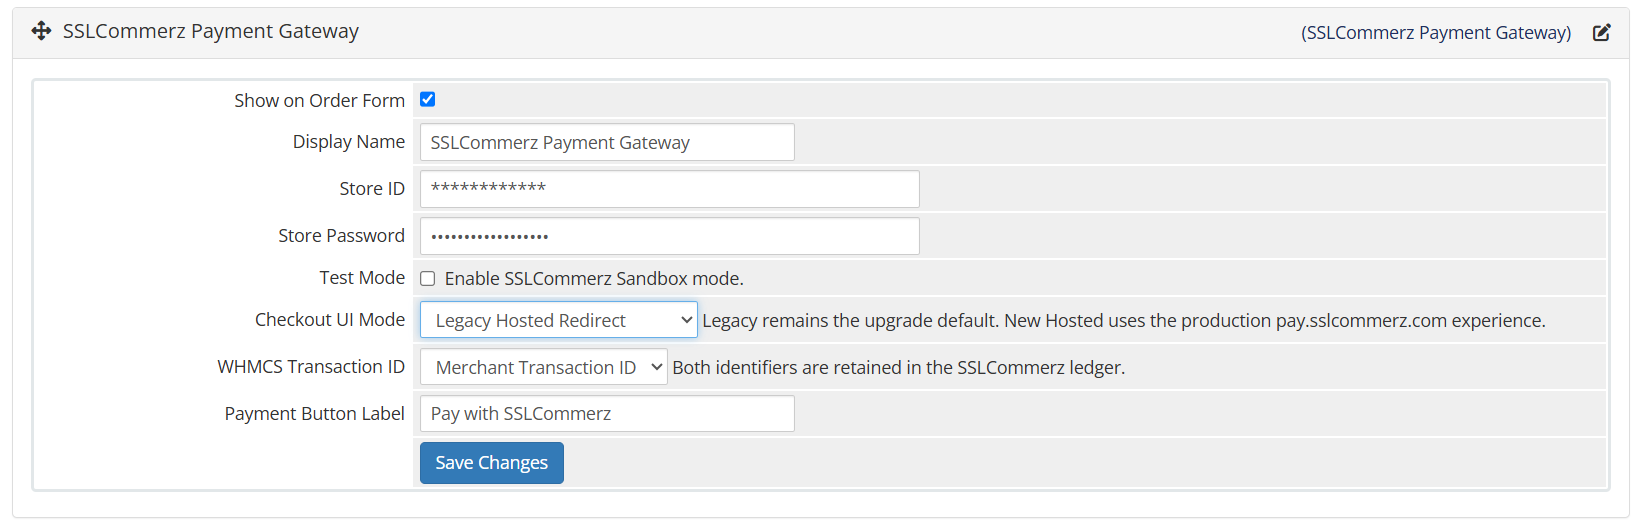
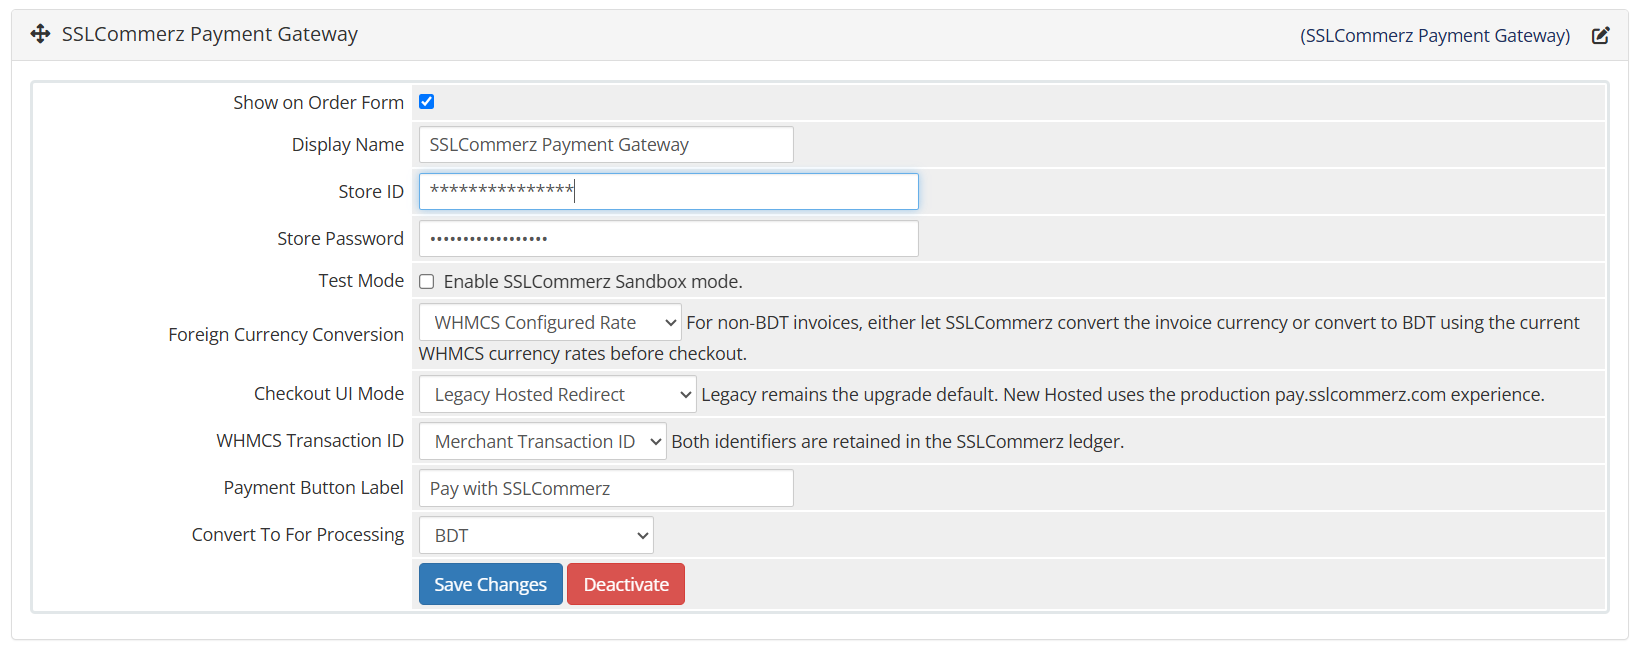
release: prepare v1.0.1

Changed region(s): [[0.0, 0.1217, 0.9951, 0.943], [0.7774, 0.0304, 0.9951, 0.0913], [0.0, 0.0304, 0.2177, 0.0913]]

diff --git a/modules/gateways/sslcommerz/lib/Ledger.php b/modules/gateways/sslcommerz/lib/Ledger.php
@@ -20,6 +20,7 @@ class SslCommerzLedger
                 'id' => 'increments', 'invoice_id' => 'integer', 'tran_id' => 'string:30',
                 'val_id' => 'string:100?', 'bank_tran_id' => 'string:100?', 'sessionkey' => 'string:128?',
                 'status' => 'string:32', 'currency' => 'string:8', 'invoice_amount' => 'decimal:16,2',
+                'processing_currency' => 'string:8?', 'processing_amount' => 'decimal:16,2',
                 'bdt_amount' => 'decimal:16,2', 'currency_rate_bdt' => 'decimal:18,8',
                 'refunded_bdt' => 'decimal:16,2', 'refund_ref_id' => 'string:100?',
                 'refund_trans_id' => 'string:30?', 'card_no' => 'string:80?', 'card_type' => 'string:100?',
@@ -78,6 +79,8 @@ class SslCommerzLedger
                 $table->string('status', 32)->default('initiated')->index();
                 $table->string('currency', 8);
                 $table->decimal('invoice_amount', 16, 2)->default(0);
+                $table->string('processing_currency', 8)->nullable();
+                $table->decimal('processing_amount', 16, 2)->default(0);
                 $table->decimal('bdt_amount', 16, 2)->default(0);
                 $table->decimal('currency_rate_bdt', 18, 8)->default(0);
                 $table->decimal('refunded_bdt', 16, 2)->default(0);
@@ -163,11 +166,16 @@ class SslCommerzLedger
     {
         if (empty($transaction['tran_id'])) { return false; }
         $tranId = (string)$transaction['tran_id'];
-        $currency = strtoupper(trim(isset($transaction['currency_type']) ? (string)$transaction['currency_type'] : (isset($transaction['currency']) ? (string)$transaction['currency'] : '')));
-        $invoiceAmount = isset($transaction['currency_amount']) && (float)$transaction['currency_amount'] > 0
+        $existing = $this->find($tranId);
+        $processingCurrency = strtoupper(trim(isset($transaction['currency_type']) ? (string)$transaction['currency_type'] : (isset($transaction['currency']) ? (string)$transaction['currency'] : '')));
+        $processingAmount = isset($transaction['currency_amount']) && (float)$transaction['currency_amount'] > 0
             ? (float)$transaction['currency_amount'] : 0;
         $bdtAmount = isset($transaction['amount']) && (float)$transaction['amount'] > 0 ? (float)$transaction['amount'] : 0;
-        if ($invoiceAmount <= 0 && $currency === 'BDT') { $invoiceAmount = $bdtAmount; }
+        if ($processingAmount <= 0 && $processingCurrency === 'BDT') { $processingAmount = $bdtAmount; }
+        $invoiceCurrency = $existing && !empty($existing->currency)
+            ? strtoupper((string)$existing->currency) : $processingCurrency;
+        $invoiceAmount = $existing && isset($existing->invoice_amount) && (float)$existing->invoice_amount > 0
+            ? (float)$existing->invoice_amount : $processingAmount;
         $safeTransaction = class_exists('SslCommerzSupport') ? SslCommerzSupport::redact($transaction) : $transaction;
         $fields = array('raw_response'=>json_encode($safeTransaction));
         if (isset($transaction['value_a']) && (int)$transaction['value_a'] > 0) { $fields['invoice_id'] = (int)$transaction['value_a']; }
@@ -181,11 +189,17 @@ class SslCommerzLedger
         if (isset($transaction['status']) && trim((string)$transaction['status']) !== '') {
             $fields['status'] = strtolower(trim((string)$transaction['status']));
         }
-        if ($currency !== '') { $fields['currency'] = $currency; }
-        if ($invoiceAmount > 0) { $fields['invoice_amount'] = $invoiceAmount; }
+        if ($processingCurrency !== '') { $fields['processing_currency'] = $processingCurrency; }
+        if ($processingAmount > 0) { $fields['processing_amount'] = $processingAmount; }
+        if (!$existing || empty($existing->currency)) {
+            if ($invoiceCurrency !== '') { $fields['currency'] = $invoiceCurrency; }
+        }
+        if (!$existing || !isset($existing->invoice_amount) || (float)$existing->invoice_amount <= 0) {
+            if ($invoiceAmount > 0) { $fields['invoice_amount'] = $invoiceAmount; }
+        }
         if ($bdtAmount > 0) { $fields['bdt_amount'] = $bdtAmount; }
         if ($invoiceAmount > 0 && $bdtAmount > 0) {
-            $fields['currency_rate_bdt'] = $currency === 'BDT' ? 1 : round($bdtAmount/$invoiceAmount, 8);
+            $fields['currency_rate_bdt'] = $invoiceCurrency === 'BDT' ? 1 : round($bdtAmount/$invoiceAmount, 8);
         }
         foreach (array('card_no','card_type','card_brand','card_issuer','risk_title') as $detail) {
             if (isset($transaction[$detail]) && trim((string)$transaction[$detail]) !== '') {
@@ -195,7 +209,6 @@ class SslCommerzLedger
         if (isset($transaction['risk_level']) && is_numeric($transaction['risk_level'])) {
             $fields['risk_level'] = (int)$transaction['risk_level'];
         }
-        $existing = $this->find($tranId);
         if ($existing) { return $this->update($tranId, $fields); }
         if (!isset($fields['invoice_id'], $fields['invoice_amount'], $fields['currency'])
             || $fields['invoice_id'] <= 0 || $fields['invoice_amount'] <= 0 || $fields['currency'] === '') { return false; }
@@ -376,6 +389,8 @@ class SslCommerzLedger
     private function migrateExistingTable($capsule)
     {
         $definitions = array(
+            'processing_currency' => function ($t) { $t->string('processing_currency', 8)->nullable(); },
+            'processing_amount' => function ($t) { $t->decimal('processing_amount', 16, 2)->default(0); },
             'currency_rate_bdt' => function ($t) { $t->decimal('currency_rate_bdt', 18, 8)->default(0); },
             'refunded_bdt' => function ($t) { $t->decimal('refunded_bdt', 16, 2)->default(0); },
             'refund_trans_id' => function ($t) { $t->string('refund_trans_id', 30)->nullable(); },

diff --git a/modules/gateways/sslcommerz/lib/CheckoutService.php b/modules/gateways/sslcommerz/lib/CheckoutService.php
@@ -10,15 +10,17 @@ class SslCommerzCheckoutService
     private $invoiceLoader;
     private $gateway;
     private $systemUrl;
+    private $currencyConverter;
     private $lastDiagnostic = array();
 
-    public function __construct($api, $ledger, callable $invoiceLoader, array $gateway, $systemUrl)
+    public function __construct($api, $ledger, callable $invoiceLoader, array $gateway, $systemUrl, callable $currencyConverter = null)
     {
         $this->api = $api;
         $this->ledger = $ledger;
         $this->invoiceLoader = $invoiceLoader;
         $this->gateway = $gateway;
         $this->systemUrl = rtrim((string) $systemUrl, '/');
+        $this->currencyConverter = $currencyConverter;
     }
 
     public function initiate($invoiceId)
@@ -36,6 +38,35 @@ class SslCommerzCheckoutService
 
         $tranId = SslCommerzSupport::transactionId($invoice['invoiceid']);
         $callback = $this->systemUrl . '/modules/gateways/callback/sslcommerz.php';
+        $this->lastDiagnostic = array(
+            'invoice_id' => (int)$invoice['invoiceid'],
+            'tran_id' => $tranId,
+            'amount' => (float)$invoice['amount'],
+            'currency' => strtoupper((string)$invoice['currency']),
+            'conversion_source' => isset($this->gateway['conversion_source']) && $this->gateway['conversion_source'] === 'whmcs'
+                ? 'whmcs' : 'sslcommerz',
+        );
+        try {
+            $amounts = SslCommerzPaymentRules::checkoutAmounts($this->gateway, $invoice, $this->currencyConverter);
+        } catch (Throwable $error) {
+            $message = $this->redactDiagnosticText($error->getMessage());
+            $this->lastDiagnostic['preflight_error'] = $message;
+            try {
+                $this->ledger->begin(array(
+                    'invoice_id' => (int) $invoice['invoiceid'],
+                    'tran_id' => $tranId,
+                    'status' => 'session_failed',
+                    'currency' => strtoupper((string) $invoice['currency']),
+                    'invoice_amount' => (float) $invoice['amount'],
+                    'raw_response' => json_encode(array('status'=>'PREFLIGHT_FAILED','failedreason'=>$message)),
+                ));
+            } catch (Throwable $ignored) {
+                // Preserve the actionable conversion error if diagnostic persistence also fails.
+            }
+            throw $error;
+        }
+        $invoice = array_merge($invoice, $amounts);
+
         $urls = array(
             'success_url' => $callback,
             'fail_url' => $callback,
@@ -43,11 +74,9 @@ class SslCommerzCheckoutService
             'ipn_url' => $this->systemUrl . '/modules/gateways/callback/sslcommerz_ipn.php',
             'return_url' => isset($invoice['returnurl']) ? $invoice['returnurl'] : $this->systemUrl . '/viewinvoice.php?id=' . (int) $invoice['invoiceid'],
         );
-        $this->lastDiagnostic = array(
-            'invoice_id' => (int)$invoice['invoiceid'],
-            'tran_id' => $tranId,
-            'amount' => (float)$invoice['amount'],
-            'currency' => strtoupper((string)$invoice['currency']),
+        $this->lastDiagnostic = array_merge($this->lastDiagnostic, array(
+            'processing_amount' => (float)$invoice['processing_amount'],
+            'processing_currency' => strtoupper((string)$invoice['processing_currency']),
             'checkout_mode' => SslCommerzSupport::checkoutMode(isset($this->gateway['ui_mode']) ? $this->gateway['ui_mode'] : ''),
             'test_mode' => isset($this->gateway['testmode']) && $this->gateway['testmode'] === 'on',
             'customer_fields_present' => array(
@@ -60,7 +89,7 @@ class SslCommerzCheckoutService
                 'phone' => isset($invoice['phone']) && trim((string)$invoice['phone']) !== '',
             ),
             'callback_host' => parse_url($callback, PHP_URL_HOST),
-        );
+        ));
 
         $this->ledger->begin(array(
             'invoice_id' => (int) $invoice['invoiceid'],
@@ -68,6 +97,8 @@ class SslCommerzCheckoutService
             'status' => 'initiated',
             'currency' => strtoupper((string) $invoice['currency']),
             'invoice_amount' => (float) $invoice['amount'],
+            'processing_currency' => strtoupper((string) $invoice['processing_currency']),
+            'processing_amount' => (float) $invoice['processing_amount'],
         ));
 
         try {

diff --git a/modules/gateways/sslcommerz/lib/PaymentRules.php b/modules/gateways/sslcommerz/lib/PaymentRules.php
@@ -2,10 +2,40 @@
 
 class SslCommerzPaymentRules
 {
+    public static function checkoutAmounts(array $gateway, array $invoice, callable $converter = null)
+    {
+        $invoiceAmount = (float) $invoice['amount'];
+        $invoiceCurrency = strtoupper((string) $invoice['currency']);
+        $processingAmount = $invoiceAmount;
+        $processingCurrency = $invoiceCurrency;
+
+        if (isset($gateway['conversion_source']) && $gateway['conversion_source'] === 'whmcs' && $invoiceCurrency !== 'BDT') {
+            if (!$converter) {
+                throw new RuntimeException('WHMCS BDT conversion rate is unavailable.');
+            }
+            $converted = (float) call_user_func($converter, $invoiceAmount, $invoiceCurrency, 'BDT');
+            if (!is_finite($converted) || $converted <= 0) {
+                throw new RuntimeException('WHMCS BDT conversion rate is unavailable.');
+            }
+            $processingAmount = round($converted, 2);
+            if ($processingAmount <= 0) {
+                throw new RuntimeException('WHMCS BDT conversion rate is unavailable.');
+            }
+            $processingCurrency = 'BDT';
+        }
+
+        return array(
+            'invoice_amount' => $invoiceAmount,
+            'invoice_currency' => $invoiceCurrency,
+            'processing_amount' => $processingAmount,
+            'processing_currency' => $processingCurrency,
+        );
+    }
+
     public static function sessionPayload(array $gateway, array $invoice, array $urls, $tranId)
     {
-        $amount = (float)$invoice['amount'];
-        $currency = strtoupper((string)$invoice['currency']);
+        $amount = isset($invoice['processing_amount']) ? (float)$invoice['processing_amount'] : (float)$invoice['amount'];
+        $currency = strtoupper(isset($invoice['processing_currency']) ? (string)$invoice['processing_currency'] : (string)$invoice['currency']);
         if ($currency === 'BDT' && ($amount < 10 || $amount > 500000)) {
             throw new InvalidArgumentException('SSLCommerz accepts direct BDT payments from 10.00 to 500000.00 BDT.');
         }
@@ -73,16 +103,20 @@ class SslCommerzPaymentRules
         }
 
         $currency = strtoupper(isset($attempt['currency']) ? (string) $attempt['currency'] : '');
+        $processingCurrency = strtoupper(isset($attempt['processing_currency']) && $attempt['processing_currency'] !== ''
+            ? (string) $attempt['processing_currency'] : $currency);
         $validatedCurrency = strtoupper(isset($validation['currency_type']) ? (string) $validation['currency_type'] : (isset($validation['currency']) ? (string) $validation['currency'] : ''));
-        if ($validatedCurrency !== $currency) {
+        if ($validatedCurrency !== $processingCurrency) {
             return self::reject('currency_mismatch');
         }
 
         $invoiceAmount = (float) (isset($attempt['invoice_amount']) ? $attempt['invoice_amount'] : 0);
-        $validatedInvoiceAmount = $currency === 'BDT'
+        $processingAmount = isset($attempt['processing_amount']) && (float)$attempt['processing_amount'] > 0
+            ? (float)$attempt['processing_amount'] : $invoiceAmount;
+        $validatedProcessingAmount = $processingCurrency === 'BDT'
             ? (float) (isset($validation['currency_amount']) && $validation['currency_amount'] !== '' ? $validation['currency_amount'] : (isset($validation['amount']) ? $validation['amount'] : 0))
             : (float) (isset($validation['currency_amount']) ? $validation['currency_amount'] : 0);
-        if ($invoiceAmount <= 0 || abs($invoiceAmount - $validatedInvoiceAmount) > 0.01) {
+        if ($invoiceAmount <= 0 || $processingAmount <= 0 || abs($processingAmount - $validatedProcessingAmount) > 0.01) {
             return self::reject('amount_mismatch');
         }
 

diff --git a/modules/gateways/sslcommerz/lib/Bootstrap.php b/modules/gateways/sslcommerz/lib/Bootstrap.php
@@ -68,7 +68,14 @@ class SslCommerzBootstrap
         ));
         $ledger = new SslCommerzLedger();
         $loader = new SslCommerzWhmcsInvoiceLoader($systemUrl);
-        return new SslCommerzCheckoutService($api, $ledger, array($loader, 'load'), $gateway, $systemUrl);
+        return new SslCommerzCheckoutService(
+            $api,
+            $ledger,
+            array($loader, 'load'),
+            $gateway,
+            $systemUrl,
+            array($loader, 'convertCurrency')
+        );
     }
 }
 
@@ -118,5 +125,15 @@ class SslCommerzWhmcsInvoiceLoader
             'phone' => (string) $invoice->phonenumber,
             'returnurl' => $this->systemUrl . '/viewinvoice.php?id=' . (int) $invoice->invoiceid,
         );
+    }
+
+    public function convertCurrency($amount, $fromCode, $toCode)
+    {
+        $from = \WHMCS\Billing\Currency::where('code', strtoupper((string)$fromCode))->first();
+        $to = \WHMCS\Billing\Currency::where('code', strtoupper((string)$toCode))->first();
+        if (!$from || !$to) {
+            throw new RuntimeException('WHMCS BDT conversion rate is unavailable.');
+        }
+        return \WHMCS\Billing\Currency::convertBetween($from, (float)$amount, $to);
     }
 }

diff --git a/modules/gateways/sslcommerz.php b/modules/gateways/sslcommerz.php
@@ -23,6 +23,16 @@ function sslcommerz_config()
         'store_id' => array('FriendlyName' => 'Store ID', 'Type' => 'text', 'Size' => '40'),
         'store_password' => array('FriendlyName' => 'Store Password', 'Type' => 'password', 'Size' => '40'),
         'testmode' => array('FriendlyName' => 'Test Mode', 'Type' => 'yesno', 'Description' => 'Enable SSLCommerz Sandbox mode.'),
+        'conversion_source' => array(
+            'FriendlyName' => 'Foreign Currency Conversion',
+            'Type' => 'dropdown',
+            'Options' => array(
+                'sslcommerz' => 'SSLCommerz Current Rate',
+                'whmcs' => 'WHMCS Configured Rate',
+            ),
+            'Default' => 'sslcommerz',
+            'Description' => 'For non-BDT invoices, either let SSLCommerz convert the invoice currency or convert to BDT using the current WHMCS currency rates before checkout.',
+        ),
         'ui_mode' => array(
             'FriendlyName' => 'Checkout UI Mode',
             'Type' => 'dropdown',

diff --git a/modules/addons/sslcommerz_lookup/sslcommerz_lookup.php b/modules/addons/sslcommerz_lookup/sslcommerz_lookup.php
@@ -18,7 +18,7 @@ function sslcommerz_lookup_config()
     return array(
         'name' => 'SSLCommerz Transaction Lookup',
         'description' => 'Search the local payment ledger, refresh transaction data through the v4 API, export CSV, and query refund status.',
-        'version' => '1.0.0',
+        'version' => '1.0.1',
         'author' => 'Extent Technologies Limited',
         'fields' => array(
             'store_id' => array(

diff --git a/README.md b/README.md
@@ -1,12 +1,12 @@
 # SSLCommerz for WHMCS
 
-[![Release](https://img.shields.io/badge/release-1.0.0-1565c0.svg)](CHANGELOG.md)
+[![Release](https://img.shields.io/badge/release-1.0.1-1565c0.svg)](CHANGELOG.md)
 [![PHP](https://img.shields.io/badge/PHP-7.4%20%7C%208.1--8.3-777bb4.svg)](https://www.php.net/)
 [![License](https://img.shields.io/badge/license-MIT-green.svg)](LICENSE)
 
 A production-ready SSLCommerz v4 payment gateway for WHMCS, with secure checkout, callback/IPN settlement, multi-currency reconciliation, refunds, and an optional administrator transaction-lookup add-on.
 
-Version **1.0.0** is the first public production release.
+Version **1.0.1** adds a selectable foreign-currency conversion policy, allowing non-BDT invoices to use either SSLCommerz's current rate or the rate configured in WHMCS.
 
 > This is an independent community integration. It is not an official product of, sponsored by, or affiliated with SSL Wireless/SSLCommerz or WHMCS.
 
@@ -16,6 +16,7 @@ Version **1.0.0** is the first public production release.
 - Server-side invoice reload and short-lived HMAC checkout tokens
 - Shared, idempotent browser callback and IPN payment processing
 - Strict transaction, amount, currency, risk, and identity validation
+- Selectable SSLCommerz or WHMCS foreign-currency conversion rates
 - Safe USD/foreign-currency to BDT settlement reconciliation
 - Full and partial refunds using the payment's captured exchange rate
 - Searchable local transaction ledger, remote refresh, and refund status lookup
@@ -37,7 +38,7 @@ Version **1.0.0** is the first public production release.
 2. Download the release ZIP and extract it.
 3. Copy the extracted `modules` directory into the WHMCS installation root, merging it with the existing `modules` directory.
 4. Open **Configuration > Apps & Integrations > Payments** and activate **SSLCommerz Payment Gateway**.
-5. Enter the store ID and password, select the environment and checkout mode, then save.
+5. Enter the store ID and password, select the environment, conversion policy, and checkout mode, then save.
 6. Optionally activate **SSLCommerz Transaction Lookup** under **System Settings > Addon Modules** and grant access to the required administrator roles.
 7. Complete a sandbox payment and verify both the invoice and **Billing > Gateway Log** before enabling live mode.
 
@@ -47,7 +48,14 @@ For upgrades, replace all gateway, callback, and add-on files together. Keep `le
 
 ## Configuration
 
-Configure the credentials, Test Mode, checkout mode, invoice transaction-ID preference, and gateway display name from the WHMCS payment gateway page. Never commit or share live store credentials.
+Configure the credentials, Test Mode, checkout mode, foreign-currency conversion source, invoice transaction-ID preference, and gateway display name from the WHMCS payment gateway page. Never commit or share live store credentials.
+
+**Foreign Currency Conversion** provides two policies for non-BDT invoices:
+
+- **SSLCommerz Current Rate** is the backward-compatible default. The module sends the invoice amount and currency, and SSLCommerz converts it to BDT using its current rate.
+- **WHMCS Configured Rate** converts the invoice balance to BDT on the server using the rates under **System Settings > Currencies**, then sends the locked BDT amount to SSLCommerz. BDT must exist as a configured WHMCS currency with a valid rate.
+
+Direct BDT invoices bypass conversion in both modes.
 
 ![SSLCommerz gateway settings in WHMCS](images/config.png)
 
@@ -88,7 +96,11 @@ Browser returns and IPNs use the same validation and settlement processor. Atomi
 
 ## Currency reconciliation
 
-The module keeps the customer's invoice amount separate from the BDT amount settled by SSLCommerz. A `0.10 USD` invoice settled as `12.34 BDT` is displayed as those two distinct values, never as `12.34 USD`.
+The module keeps the customer's invoice amount separate from the amount submitted for processing and the BDT amount settled by SSLCommerz. A `0.10 USD` invoice processed and settled as `12.34 BDT` is displayed as those two distinct values, never as `12.34 USD`.
+
+The conversion policy and processing amount are captured when the session is created. Later changes to the gateway setting or WHMCS currency rates do not alter callback validation or refund calculations for that transaction.
+
+Checkout uses the invoice's current outstanding balance, including WHMCS ledger adjustments, rather than only the original line-item total. The module does not add a conversion surcharge or convenience fee.
 
 For non-BDT invoices, refunds reuse the BDT-per-invoice-currency rate captured during payment. Historical foreign-currency payments without a captured rate are refused because applying a current rate could over-refund. Refund totals are capped at the remaining captured BDT balance, and durable reservations keep concurrent attempts idempotent.
 
@@ -110,13 +122,14 @@ The administrator add-on provides a minimal dashboard for recent transactions, m
 
 ## Troubleshooting
 
-- **Popup reports an error in communication:** verify all 1.0.0 files were uploaded together and clear the PHP opcode cache. The popup endpoint accepts SSLCommerz's live `cart_json` wrapper while authenticating the signed invoice token.
+- **Popup reports an error in communication:** verify all 1.0.1 files were uploaded together and clear the PHP opcode cache. The popup endpoint accepts SSLCommerz's live `cart_json` wrapper while authenticating the signed invoice token.
 - **New Hosted opens the legacy page:** confirm `new_hosted` is saved. Live New Hosted rewrites only SSLCommerz's exact approved live session host to `pay.sslcommerz.com`.
 - **Unable to start payment:** inspect the newest `SESSION_FAILED` record in the lookup add-on or **Billing > Gateway Log**. Local, transport, and provider failures are logged while the customer sees a generic message.
+- **WHMCS rate conversion is unavailable:** add and configure BDT under **System Settings > Currencies**, verify both source and BDT rates are positive, then retry from a freshly loaded invoice.
 - **Invoice remains unpaid:** confirm the public HTTPS callback and IPN endpoints are reachable and that the response matches the original invoice currency amount and settled BDT amount.
-- **Customer is logged out after return:** confirm the 1.0.0 callback files replaced older scripts and that no proxy or plug-in injects a session cookie into callback responses.
+- **Customer is logged out after return:** confirm the 1.0.1 callback files replaced older scripts and that no proxy or plug-in injects a session cookie into callback responses.
 - **Refund returns `REQUEST_FROM_INVALID_SOURCE`:** register the server's public outbound IP with SSLCommerz, then retry the same refund.
-- **Lookup View reports an expired token:** clear the opcode cache. Version 1.0.0 uses WHMCS's native administrator CSRF token and has no custom rotating lookup token.
+- **Lookup View reports an expired token:** clear the opcode cache. Version 1.0.1 uses WHMCS's native administrator CSRF token and has no custom rotating lookup token.
 
 ## Development
 
@@ -144,3 +157,4 @@ GitHub Actions runs multi-version PHP syntax checks and builds the installable Z
 - Changes are recorded in [CHANGELOG.md](CHANGELOG.md).
 
 Released under the [MIT License](LICENSE). Copyright © 2026 Extent Technologies Limited.
+Developed and maintained by [MD Abu Bakkar](https://www.google.com/search?kgmid=/g/11zwqn5szs).

diff --git a/CHANGELOG.md b/CHANGELOG.md
@@ -2,6 +2,18 @@
 
 All notable public changes are documented here.
 
+## 1.0.1 - 2026-09-27
+
+### Added
+
+- Added a gateway setting that selects SSLCommerz's current conversion rate or the configured WHMCS rate for non-BDT invoices.
+
+### Changed
+
+- Locked the original invoice amount and gateway processing amount separately for callback validation, reconciliation, and refunds.
+- Documented that checkout converts the current outstanding invoice balance without adding a module-level surcharge or convenience fee.
+- Updated the gateway configuration documentation and screenshot for the new conversion setting.
+
 ## 1.0.0 - 2026-09-14
 
 First public production release.
